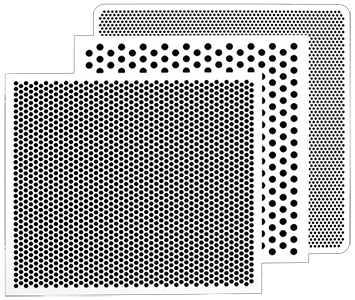
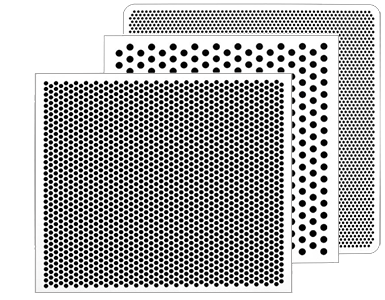
update

diff --git a/tcpc/index.html b/tcpc/index.html
@@ -75,17 +75,23 @@
 <section class="service">
   <div class="container">  
     <div class="row ">
-      <div class="section-title">
+<!--      <div class="section-title">
         <h2 style="text-align:center;">RETORT DIVIDERS</h2>
-        </div>    
-      <div class="col-sm-6 col-md-3">
+        </div> -->   
+      <div class="col-sm-6 col-md-4">
         <div class="service-item">
           <i class="icon ion-coffee"></i>
           <h4>CIRCULAR RETORT SEPARATORS</h4>
           <p>The TRI-CORE separator has a naturally smooth surface that makes retort loading easy without waxing or soaping. Seamless construction allows for simple cleaning.<br/> TRI-CORE offers a circular retort separator in both standard and custom sizes. </p>
         </div>
       </div>
-      <div class="col-sm-6 col-md-3">
+      <div class="col-sm-6 col-md-4">
+        <div class="service-item">
+          <i class="ion-image"></i>
+        <img src="images/sheets.png" height="220" >
+        </div>
+      </div>
+      <div class="col-sm-6 col-md-4">
         <div class="service-item">
           <i class="ion-compass"></i>
           <h4>RECTANGULAR RETORT SEPARATORS</h4>
@@ -94,27 +100,8 @@
     TRI-CORE PLASTICS offers a rectangular retort separator in standard and custom sizes. </p>
         </div>
       </div>
-      <div class="col-sm-6 col-md-3">
-        <div class="service-item">
-          <i class="ion-image"></i>
-          <h4>SCREENS</h4>
-          <p>Screens available in various hole sizes. The seamless all-plastic retort separator is made from tough, durable polypropylene, which is heat and corrosion resistant. Long hours of trouble free service will reduce operating costs in food processing.</p>
-        </div>
-      </div>
-      <div class="col-sm-6 col-md-3">
-        <div class="service-item">
-          <i class="ion-bug"></i>
-          <h4>Specifications</h4>
-          <p  style="margin-left:40px;">-	Heat resistant<br/>
--	non conductive<br/>
--	Easy to clean<br/>
--	Will not scratch cans<br/>
--	Available in all standard sizes<br/>
--	Will manufacture square or round custom sizes<br/>
--	Outstanding flexibility<br/>
--	Meets FDA specifications.</p>
-        </div>
-      </div>
+
+
     </div>
   </div>
 </section>
@@ -135,6 +122,47 @@
 
 
 <!-- Wrapper Start -->
+
+<section class="service">
+  <div class="container">  
+    <div class="row ">
+<!--      <div class="section-title">
+        <h2 style="text-align:center;">RETORT DIVIDERS</h2>
+        </div> -->   
+      <div class="col-sm-6 col-md-4">
+        <div class="service-item">
+          <i class="icon ion-coffee"></i>
+          <h4>Specifications</h4>
+          <p  style="margin-left:40px;">
+        -	Heat resistant<br/>
+		-	Easy to clean<br/>
+		-	Will not scratch cans<br/>
+		-	Available in all standard sizes<br/>
+		-	Will manufacture square or round<br/>
+		-	Outstanding flexibility<br/>
+		-	Meets FDA specifications.</p>
+        </div>
+      </div>
+      <div class="col-sm-6 col-md-4">
+        <div class="service-item">
+          <i class="ion-compass"></i>
+          <h4></h4>
+		<img src="images/screens.jpg" height="180">
+        </div>
+      </div>
+      <div class="col-sm-6 col-md-4">
+        <div class="service-item">
+          <i class="ion-image"></i>
+          <h4>SCREENS</h4>
+          <p>Screens available in various hole sizes. The seamless all-plastic retort separator is made from tough, durable polypropylene, which is heat and corrosion resistant. Long hours of trouble free service will reduce operating costs in food processing.</p>
+        </div>
+      </div>
+
+    </div>
+  </div>
+</section>
+
+<!--
 <section class="about section">
 	<div class="container">
 		<div class="row">
@@ -145,17 +173,16 @@
 					</div>
 				<p>Tri-Core Plastics Containers Ltd. has been supplying all manner of commercial fish totes, quality plastic insulated and non-insulated containers (food grade quality) for the past 35 years. All of are products are food grade quality to handle the toughest environments.<br/> Our plastic products include various sizes of single and double wall fish totes, shipping containers, handling boxes, trays, collapsible pallet boxes, tote boxes, food grade shovels,  plastic  retort divider sheets, poly freezer trays and liners to the fishing and food industry throughout North America.  </p>
 				</div>
-			</div><!-- .col-md-7 close -->
+			</div>
 			<div class="col-md-5 col-sm-12">
 				<div class="block">
-					<img src="images/sheets.png" height="300">
+					<img src="images/sheets.png" height="300" width="355">
 				</div>
-			</div><!-- .col-md-5 close -->
+			</div>
 		</div>
 	</div>
-</section>
-
-
+</section>-->
+      
 <!-- Contact us Start -->
 
 <section class="call-to-action bg-1 section-sm overly">

diff --git a/tcpc/css/style.css b/tcpc/css/style.css
@@ -713,7 +713,7 @@ font header .navbar-default .navbar-nav li a:hover {
 }
 
 .slider {
-  background: url("../images/slide1.JPG") no-repeat;
+  background: url("../images/slide1.png") no-repeat;
   -webkit-background-size: cover;
   background-size: cover;
   background-attachment: scroll; /* ipad/iphone doesn't support combination of fixed and cover*/ 
